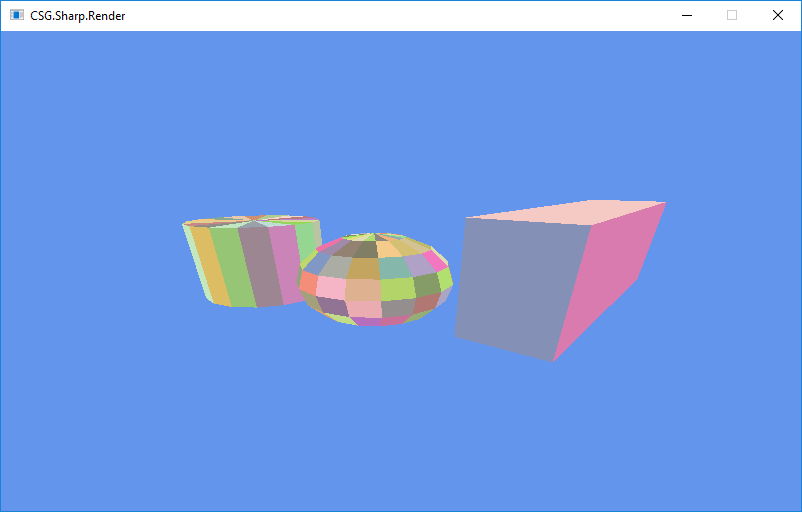
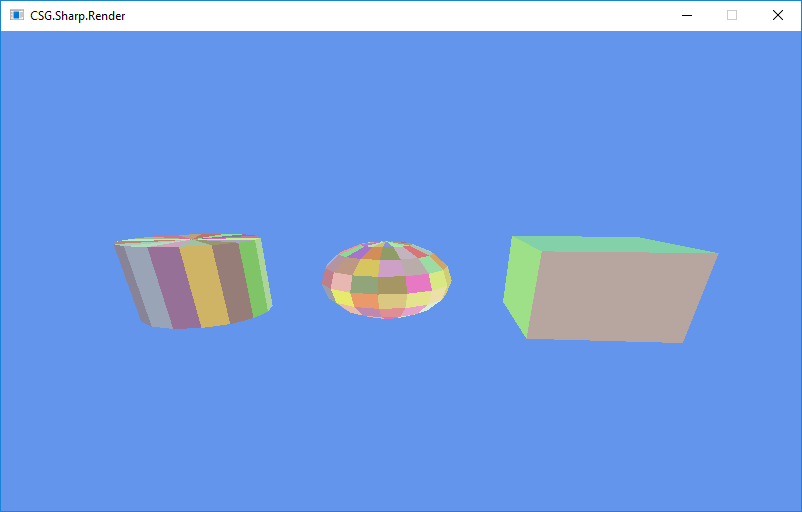
Fixed cube creation.

Changed region(s): [[0.1247, 0.375, 0.904, 0.7188]]

diff --git a/CSG.Sharp.Lib/Solids/Cube.cs b/CSG.Sharp.Lib/Solids/Cube.cs
@@ -1,4 +1,5 @@
-using System.Collections.Generic;
+using System;
+using System.Collections.Generic;
 using System.Linq;
 
 namespace CSG.Sharp
@@ -18,8 +19,8 @@ namespace CSG.Sharp
     {
         public static CSG Create(Vector center = default(Vector), double radius = 1)
         {
-            var c = new Vector(center == Vector.Zero ? Vector.One : center);
-            var r = new Vector(radius, radius, radius);
+            var c = center;
+            var r = new double[] { radius, radius, radius };
 
             var polygons = new List<Polygon>()
             {
@@ -34,15 +35,17 @@ namespace CSG.Sharp
             return CSG.FromPolygons(polygons.ToArray());
         }
 
-        private static Polygon CreatePolygon(IEnumerable<short> info, Vector normal, Vector c, Vector r)
+        private static Polygon CreatePolygon(IEnumerable<short> info, Vector normal, Vector c, double[] r)
         {
             return new Polygon(info.Select(i => {
+
                 var pos = new Vector(
-                  c.x + r.x * (2 * (i & 1) - 1),
-                  c.y + r.y * (2 * (i & 2) - 1),
-                  c.z + r.z * (2 * (i & 4) - 1)
+                  c.x + r[0] * (2 * Convert.ToInt16(Convert.ToBoolean(i & 1)) - 1),
+                  c.y + r[1] * (2 * Convert.ToInt16(Convert.ToBoolean(i & 2)) - 1),
+                  c.z + r[2] * (2 * Convert.ToInt16(Convert.ToBoolean(i & 4)) - 1)
                 );
                 return new Vertex(pos, normal);
+
             }).ToArray());
         }
     }

diff --git a/CSG.Sharp.Render/Rendering/Viewport.cs b/CSG.Sharp.Render/Rendering/Viewport.cs
@@ -62,8 +62,8 @@ namespace CSG.Sharp
 
             _camera.Perspective(90.0f, aspectRatio, 0.01f, 1000.0f);
 
-            CSG cube = Cube.Create(new Vector(15, 0, -20), 5);
-            CSG sphere = Sphere.Create(new Vector(35, 0, -20), 10);
+            CSG cube = Cube.Create(new Vector(0, 0, -20), 10);
+            CSG sphere = Sphere.Create(new Vector(30, 0, -20), 10);
             CSG cylinder = Cylinder.Create(new Vector(60, -10, -20), new Vector(60, 10, -20), 10);
 
             AddToVertices(cube.ToPolygons());
